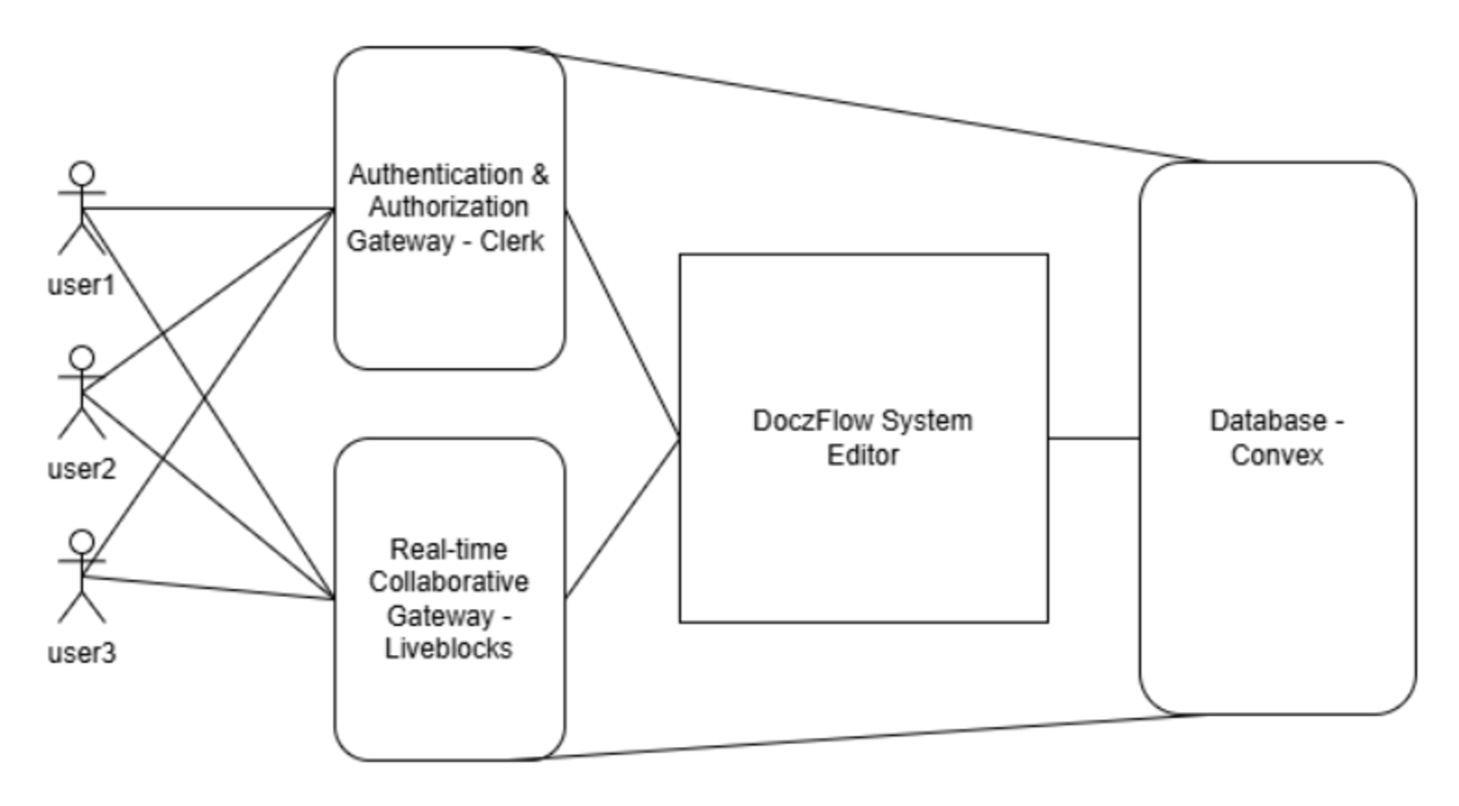
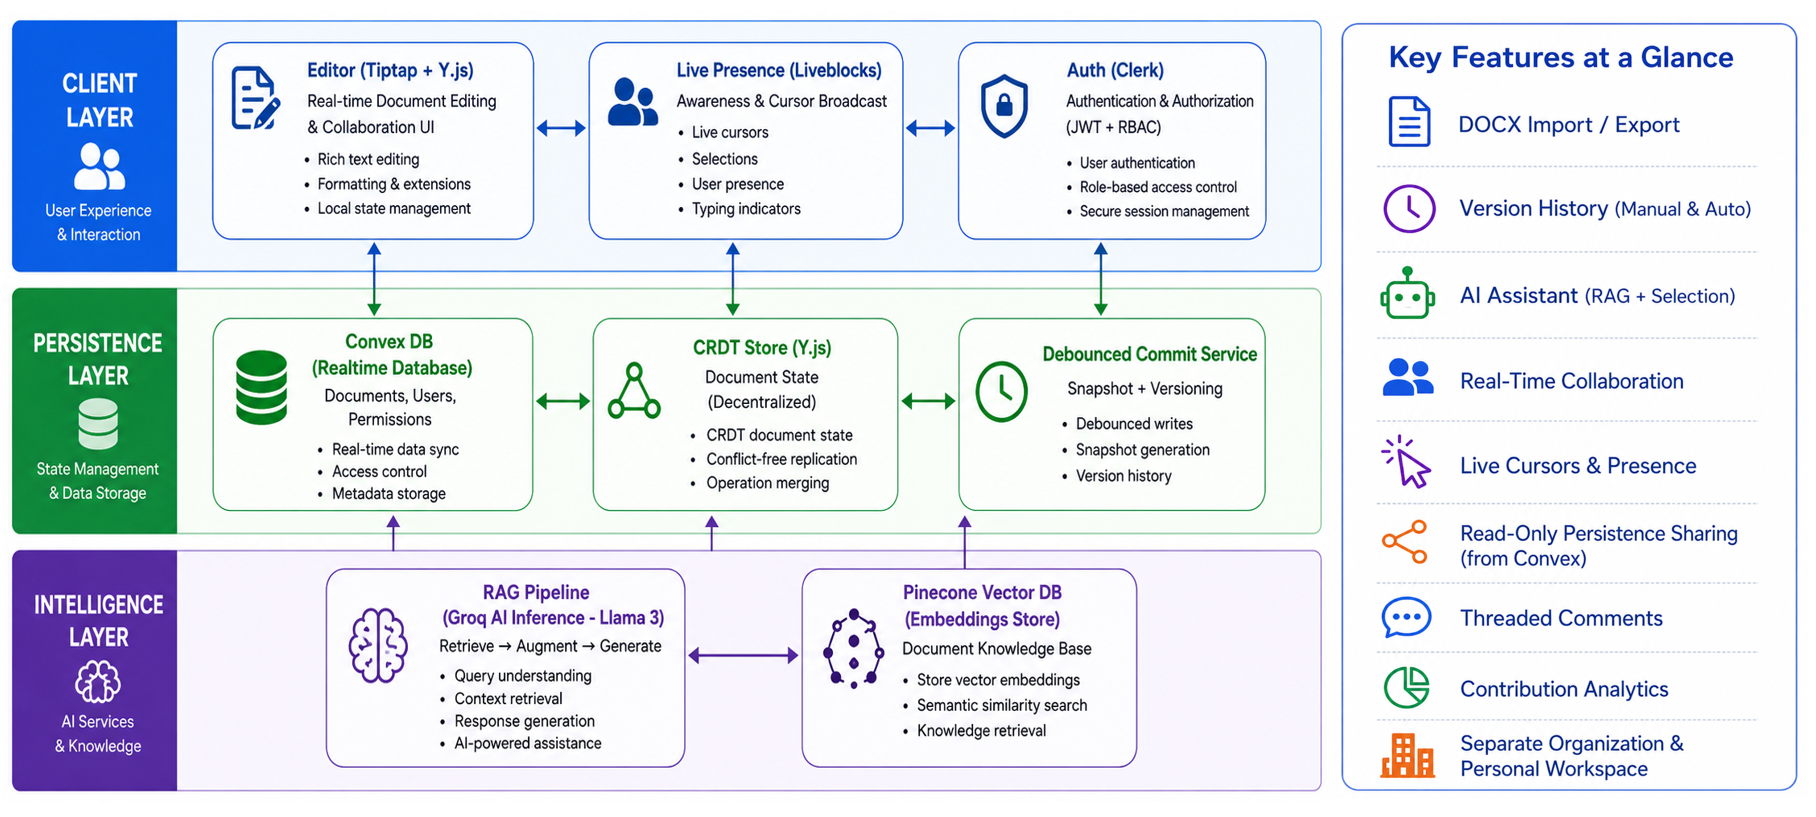
redme-update

Changed region(s): [[0.0, 0.0, 1.0, 0.9926], [0.7402, 0.0, 0.987, 0.031], [0.7711, 0.062, 0.9561, 0.0931]]

diff --git a/README.md b/README.md
@@ -1,61 +1,57 @@
-<h1 align="center">DoczFlow – Real-Time Collaborative Document Editor</h1>
+<h1 align="center">DoczFlow : AI Powered Real-Time Collaborative Editor</h1>
 
 <p align="center">
-  <img src="https://img.shields.io/badge/Next.js-Framework-black?logo=next.js"/>
-  <img src="https://img.shields.io/badge/React-Frontend-blue?logo=react"/>
-  <img src="https://img.shields.io/badge/TypeScript-Language-blue?logo=typescript"/>
+  <img src="https://img.shields.io/badge/Next.js-15-black?logo=next.js"/>
+  <img src="https://img.shields.io/badge/React-19-blue?logo=react"/>
+  <img src="https://img.shields.io/badge/TypeScript-Strict-blue?logo=typescript"/>
   <img src="https://img.shields.io/badge/Liveblocks-Realtime-purple"/>
   <img src="https://img.shields.io/badge/Convex-Backend-orange"/>
-  <img src="https://img.shields.io/badge/Clerk-Authentication-green"/>
+  <img src="https://img.shields.io/badge/AI-Groq_Llama3-red"/>
   <img src="https://img.shields.io/badge/Deployment-Vercel-black?logo=vercel"/>
 </p>
 
-DoczFlow is a **real-time collaborative document editing platform** that enables multiple users to create, edit, and collaborate on documents simultaneously.
-
-It provides **live synchronization, shared workspaces, mentions, comments, and organization-based access control**, making it suitable for team collaboration and knowledge management.
-
-The platform demonstrates modern **real-time system design and full-stack development practices** using modern web technologies.
+DoczFlow is a **real-time collaborative document editing platform** that enables multiple users to create, edit, and collaborate on documents simultaneously. It provides live synchronization, AI-powered assistance, and granular document forensics.
 
 ---
 
 # Live Demo
 
-🔗 https://collaborative-tool-lake.vercel.app
+🔗 [https://doczflow.vercel.app](https://doczflow.vercel.app)
 
 ---
 
 # Features
 
-### Real-Time Collaborative Editing
-Multiple users can edit the same document simultaneously with live synchronization.
+### 🧠 AI-Powered Document Assistant
+Integrates a **Retrieval-Augmented Generation (RAG)** pipeline using Groq and Pinecone. Provides context-aware grammar correction, tone adjustment, and document summarization.
 
-### Live Presence Indicators
-Shows active collaborators with real-time cursor updates and presence indicators.
+### 📊 Insights & Forensics
+Includes a dedicated forensics tab for **Document Flow Maps**, **Volume Distribution** charts, and an **Event Audit Trail** to track granular user contributions.
 
-### Mentions and Comments
-Collaborators can mention other users and add comments inside documents.
+### 📝 Rich Text Editing & Collaboration
+*   **Live Synchronization:** Real-time editing powered by Liveblocks & Tiptap.
+*   **Presence & Interaction:** Live cursor tracking, presence indicators, comments, and mentions.
+*   **Version History:** Robust tracking of document versions with manual and auto-save capabilities (Snapshot Based).
 
-### Organization-Based Workspaces
-Documents can be organized and shared within teams or organizations.
-
-### Secure Authentication
-User authentication and identity management handled via Clerk.
-
-### Rich Text Editing
-Modern rich text editing experience powered by TipTap.
+### 🏢 Workspaces & Security
+*   **Organization-Based Access:** Documents can be managed within team workspaces.
+*   **Secure Authentication:** Identity management and RBAC handled by Clerk.
 
 ---
+# System Architecture & Features
 
-# Application Screenshots (Live Demo)
+<p align="center">
+  <img src="docs/images/architecture.png" width="900"/>
+</p>
+
+# Application Screenshots
 
 ### Document Dashboard
-
 <p align="center">
   <img src="docs/images/dashboard.png" width="900"/>
 </p>
 
-### Collaborative Editor
-
+### Collaborative Editor & Forensics
 <p align="center">
   <img src="docs/images/editor.png" width="900"/>
 </p>
@@ -64,94 +60,23 @@ Modern rich text editing experience powered by TipTap.
 
 # Tech Stack
 
-### Frontend
-- Next.js
-- React
-- TypeScript
-- Tailwind CSS
-
-### Editor
-- TipTap (ProseMirror based)
-
-### Real-Time Collaboration
-- Liveblocks
-
-### Backend
-- Convex
-
-### Authentication
-- Clerk
-
-### Deployment
-- Vercel
+* **Frontend:** Next.js, React, TypeScript, Tailwind CSS
+* **Editor:** TipTap (ProseMirror based)
+* **Real-Time & Sync:** Liveblocks
+* **Backend & DB:** Convex
+* **AI & Intelligence:** Groq (Llama-3), Pinecone Vector DB
+* **Authentication:** Clerk
+* **Deployment:** Vercel
 
 ---
 
-# System Architecture
-The following diagram shows the high-level architecture of DoczFlow.
-
-<p align="center">
-  <img src="docs/images/architecture.png" width="900"/>
-</p>
-
----
-
-# Installation & Setup
-
-Clone the repository
-
-```bash
-git clone https://github.com/Yogesh-ahire/Collaborative-Tool.git
-```
-Move to project folder
-```bash
-cd Collaborative-Tool
-```
-Install dependencies
-```bash
-npm install
-```
-Run development server
-```bash
-npm run dev
-```
-Run Convex server
-```bash
-npx convex dev
-```
-
-Open in browser
-
-http://localhost:3000
-
-
-## Environment Variables
-
-Create a `.env.local` file
-```bash
-NEXT_PUBLIC_CONVEX_URL=
-NEXT_PUBLIC_CLERK_PUBLISHABLE_KEY=
-CLERK_SECRET_KEY=
-LIVEBLOCKS_SECRET_KEY=
-```
----
-
-# Future Improvements
-
-- Document version history
-- AI-powered document assistant
-- Advanced role-based access control
-
----
-
-# Author
-
-Yogesh Ahire
+# 👨💻 Yogesh Ahire
 
 🔗 GitHub: https://github.com/Yogesh-ahire  
 🔗 LinkedIn: https://linkedin.com/in/yogesh23-ahire
 
-
+## 📜 Acknowledgments
+This project was evolved from a foundational collaborative editor architecture referenced from [Antonio's full-stack tutorials](https://youtu.be/gq2bbDmSokU?si=TDb8WNjoj5M_g1SZ) to serve as a specialized, high-performance AI-augmented platform.
 
 ## License
 
